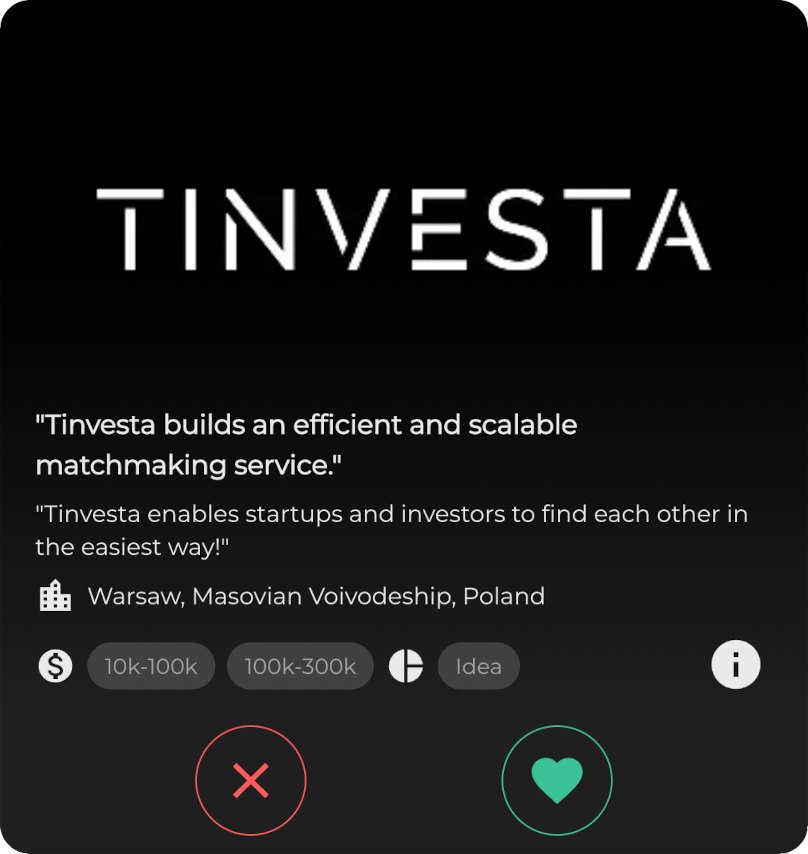
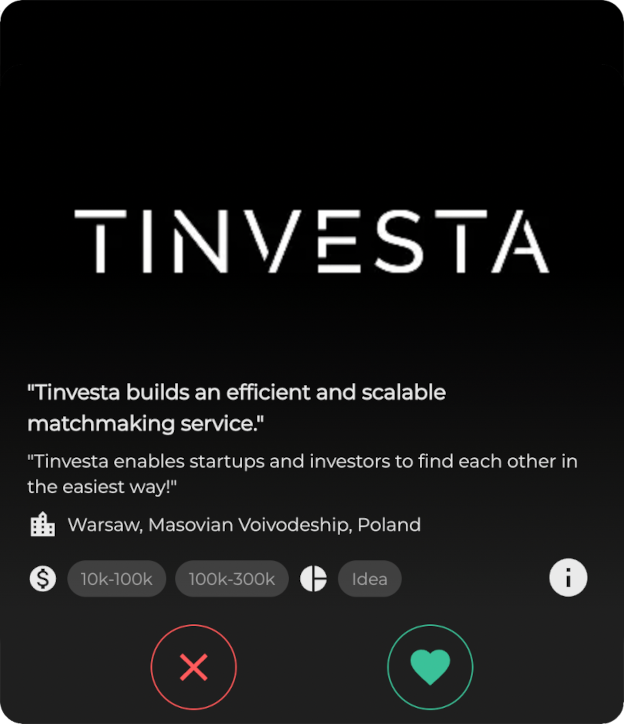
chore: final update?

diff --git a/src/domain/home/atoms/lottie-animation/lottie-animation.animation.ts b/src/domain/home/atoms/lottie-animation/lottie-animation.animation.ts
@@ -17,8 +17,8 @@ export default {
     },
     {
       id: 'image_1',
-      w: 808,
-      h: 854,
+      w: 624,
+      h: 724,
       p: '/images/match-card.png',
       e: 0,
     },
@@ -585,7 +585,7 @@ export default {
         },
         a: {
           a: 0,
-          k: [404, 427, 0],
+          k: [330, 400, 0],
           ix: 1,
           l: 2,
         },
@@ -777,7 +777,7 @@ export default {
         },
         a: {
           a: 0,
-          k: [404, 427, 0],
+          k: [330, 400, 0],
           ix: 1,
           l: 2,
         },
